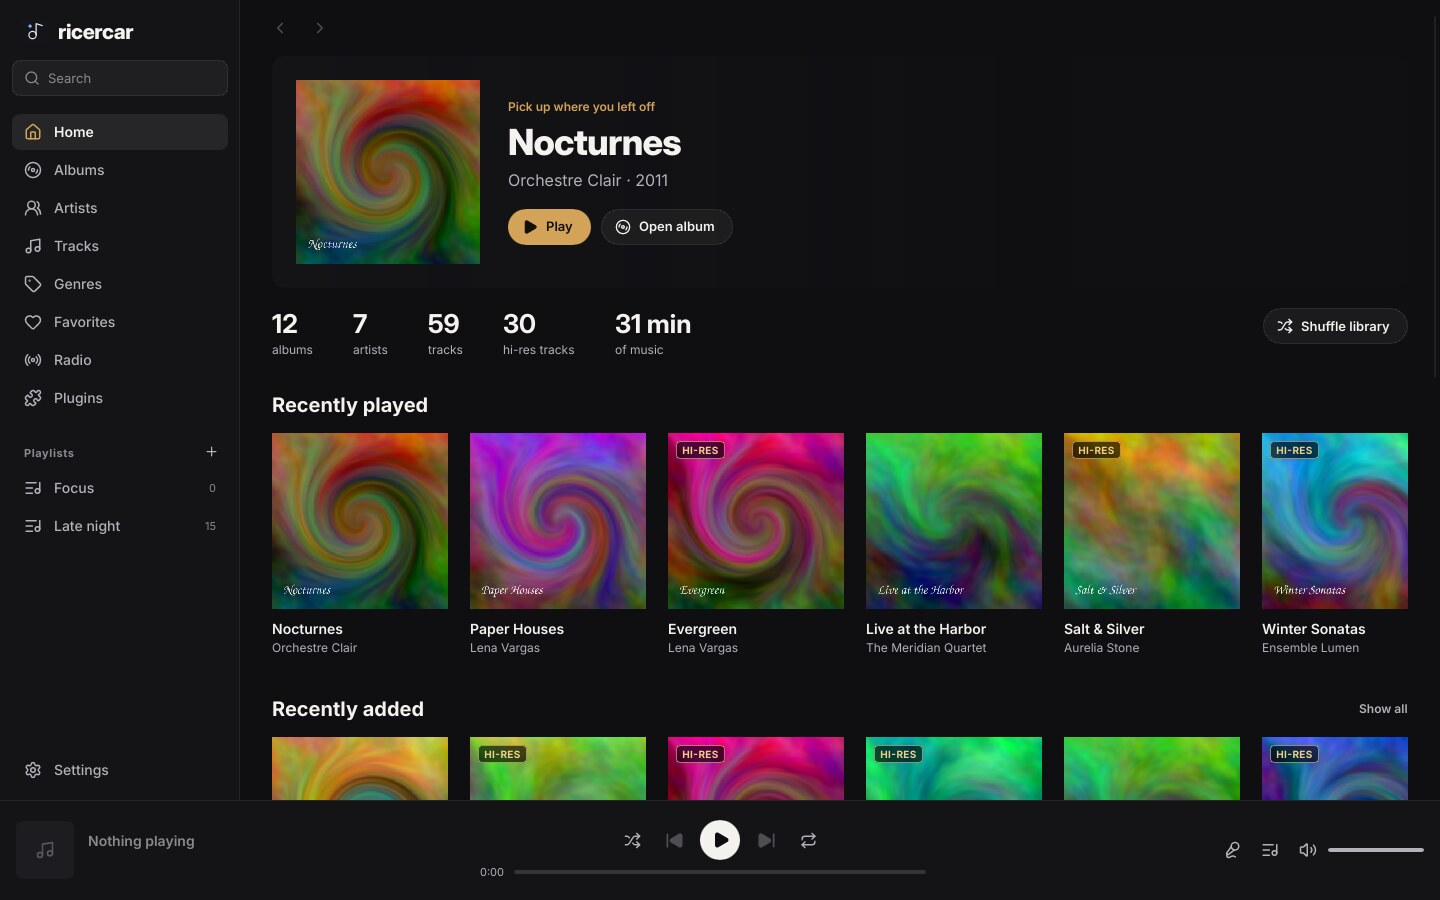
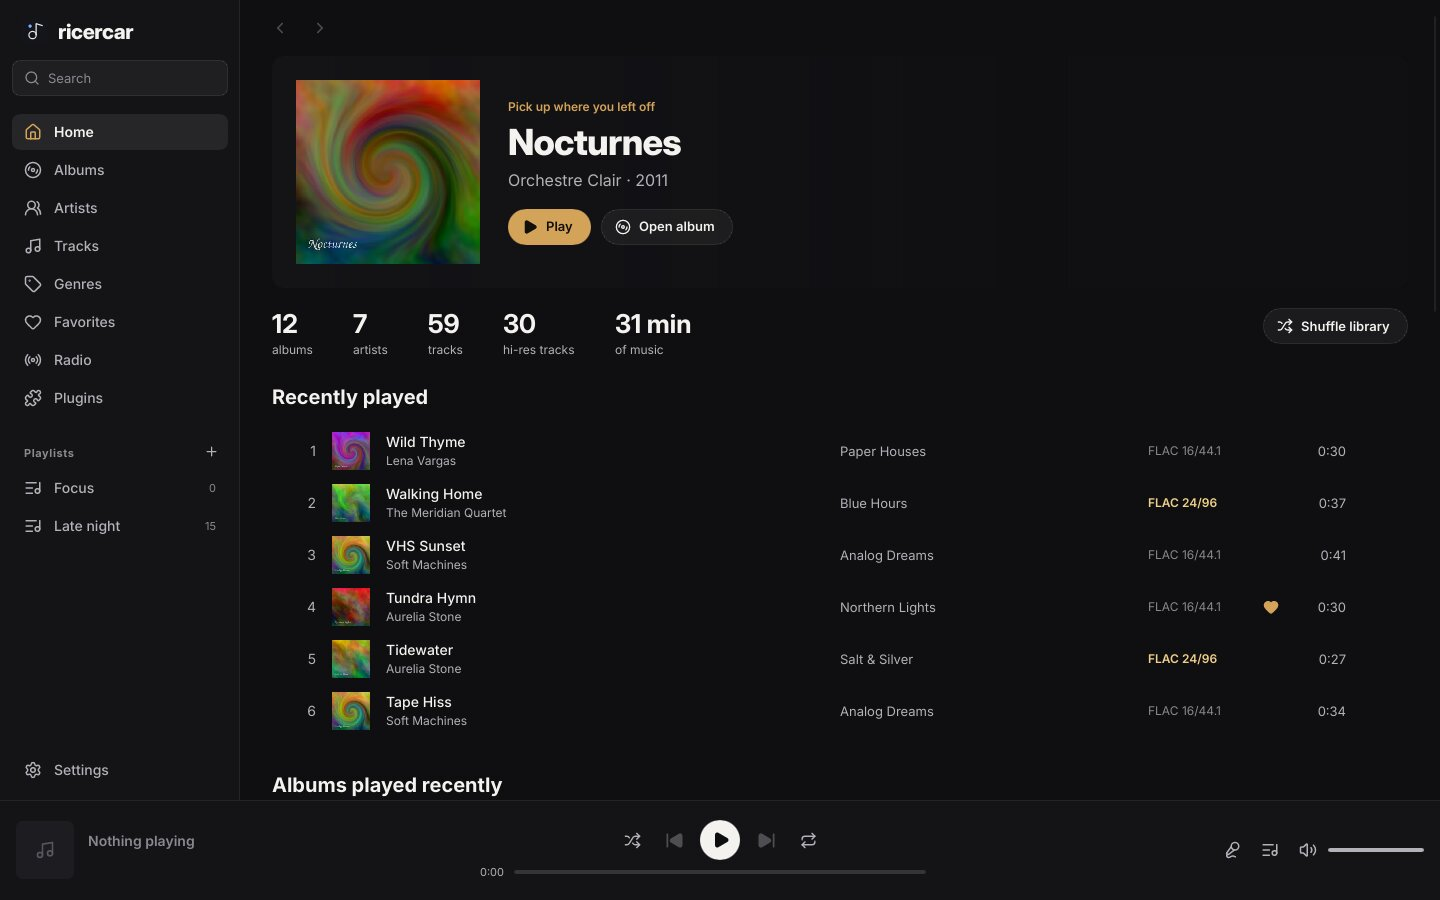
release 0.5.0

Changed region(s): [[0.1875, 0.4356, 1.0, 0.9022]]

diff --git a/crates/ricercar-online/src/http.rs b/crates/ricercar-online/src/http.rs
@@ -10,7 +10,7 @@ use crate::{OnlineError, Result};
 
 /// User-Agent sent with every request. MusicBrainz, LRCLIB and Radio Browser
 /// all ask clients to identify themselves with a name, version and contact.
-pub const USER_AGENT: &str = "ricercar/0.4 ( https://github.com/ricercar-player/ricercar )";
+pub const USER_AGENT: &str = "ricercar/0.5 ( https://github.com/ricercar-player/ricercar )";
 
 const CONNECT_TIMEOUT: Duration = Duration::from_secs(8);
 const READ_TIMEOUT: Duration = Duration::from_secs(15);
@@ -98,6 +98,6 @@ mod tests {
 
     #[test]
     fn user_agent_format() {
-        assert!(USER_AGENT.starts_with("ricercar/0.4 ("));
+        assert!(USER_AGENT.starts_with("ricercar/0.5 ("));
     }
 }

diff --git a/crates/ricercar-upnp/src/ssdp.rs b/crates/ricercar-upnp/src/ssdp.rs
@@ -12,7 +12,7 @@ const CACHE_SECS: u32 = 1800;
 /// M-SEARCH replies waiting for their delay; more are answered at once
 /// (bounded thread count under a search flood).
 const MAX_PENDING_REPLIES: usize = 16;
-const SERVER: &str = "Linux/6 UPnP/1.1 ricercar/0.4";
+const SERVER: &str = "Linux/6 UPnP/1.1 ricercar/0.5";
 
 #[derive(Clone, Copy, PartialEq)]
 pub enum Kind {

diff --git a/crates/ricercar-upnp/src/http.rs b/crates/ricercar-upnp/src/http.rs
@@ -5,7 +5,7 @@ use std::io::{Read, Write};
 use std::net::TcpStream;
 use std::time::Duration;
 
-pub const SERVER: &str = "Linux/6 UPnP/1.1 ricercar/0.4";
+pub const SERVER: &str = "Linux/6 UPnP/1.1 ricercar/0.5";
 const MAX_HEAD: usize = 64 * 1024;
 const MAX_BODY: usize = 1024 * 1024;
 /// Time allowed for a client to send its request.

diff --git a/docs/releases/v0.5.0.md b/docs/releases/v0.5.0.md
@@ -1,0 +1,32 @@
+![ricercar](https://raw.githubusercontent.com/ricercar-player/ricercar/v0.5.0/docs/assets/banner.jpg)
+
+**ricercar 0.5.0** makes plugin catalogues feel at home: their playlists sit with yours, their picks show on Home, search sorts everything by kind, and Bluetooth headphones appear in the outputs.
+
+## Downloads
+
+| Your system | File | Install |
+|---|---|---|
+| Debian 12+, Ubuntu 22.04+, Mint, Pop!_OS, Zorin, elementary | `ricercar_0.5.0-1_amd64.deb` / `_arm64.deb` | `sudo apt install ./ricercar_*.deb` |
+| Fedora, openSUSE, RHEL / Alma / Rocky 9+ | `ricercar-0.5.0-1.x86_64.rpm` / `.aarch64.rpm` | `sudo dnf install ./ricercar-*.rpm` |
+| Arch, Manjaro, EndeavourOS, CachyOS, Omarchy | `ricercar-0.5.0-1-x86_64.pkg.tar.zst` | `sudo pacman -U ricercar-*.pkg.tar.zst` |
+| Any distribution (portable) | `ricercar-0.5.0-x86_64.AppImage` / `-aarch64.AppImage` | `chmod +x ricercar-*.AppImage && ./ricercar-*.AppImage` |
+| Any distribution (plain binaries) | `ricercar-0.5.0-linux-x86_64.tar.gz` / `-aarch64` | unpack, run `bin/ricercar` |
+
+Verify downloads with `sha256sum -c SHA256SUMS --ignore-missing`.
+
+## What's new
+
+- **Plugins with a library leave the sidebar.** A plugin that shares its library no longer keeps a block of its own: its playlists join your **Playlists** list, marked with its name, and its picks (new releases, editorial selections) become shelves on **Home**. Plugins without a library keep their sidebar section as before.
+- **Search by kind.** Results now include playlists, yours and those of your plugins, and a filter under the title narrows them to artists, tracks (then all of them), albums or playlists.
+- **Recently played on Home**, from every source: plugin tracks are now counted when you play them, and Home lists the last tracks you played with their source badge.
+- **Bluetooth and other PipeWire outputs.** Headphones and speakers that only exist in PipeWire are listed in the outputs, marked as shared (not bit-perfect), next to the bit-perfect `hw:` devices.
+- **Choose the language.** Settings → Appearance → Language: System, English or Français, applied at once.
+- **Smoother touchpad scrolling.** A two-finger swipe no longer runs away; mouse wheels keep their smooth scroll.
+- **Fixes:** one notification per track (plugin tracks showed two); e-mail addresses are masked in the diagnostic report's log lines.
+- **For plugin authors:** two optional additions to the protocol, `library.playlists` and a `home` list in `browse.root` (see [docs/plugins.md](https://github.com/ricercar-player/ricercar/blob/v0.5.0/docs/plugins.md)). Plugins written for 0.4 keep working unchanged.
+
+> Plugins are written by third parties and are not reviewed by the ricercar project. They run with your permissions: install only plugins you trust, and check that they respect the terms of the service they use.
+
+Coming from 0.4.0? See also the [0.4.1 notes](https://github.com/ricercar-player/ricercar/releases/tag/v0.4.1): plugin libraries in the main pages, one search for everything, update notices.
+
+**From source:** `cargo build --release` (see the README for per-distro dependencies).

diff --git a/README.md b/README.md
@@ -114,6 +114,7 @@ Most Linux players either sound right or look right. ricercar tries to do both:
   artists and tracks join your library pages and search; playback stays
   bit-perfect
 - **Update notices**: a new release or plugin update is shown in the app
+- **English and French** interface, chosen in Settings or from the system
 - `ricercar-cli` remote and a headless daemon for a dedicated audio box
 
 </td>
@@ -491,7 +492,8 @@ output if you prefer conversion over refusal.
 
 Yes. Selecting a `hw:` device takes the card exclusively while ricercar
 plays and releases it on stop. Choose `pipewire` if you want to share the
-card with other apps (not bit-perfect).
+card with other apps (not bit-perfect). Bluetooth headphones and other
+outputs that only exist in PipeWire are listed by name, also shared.
 </details>
 
 <details>
